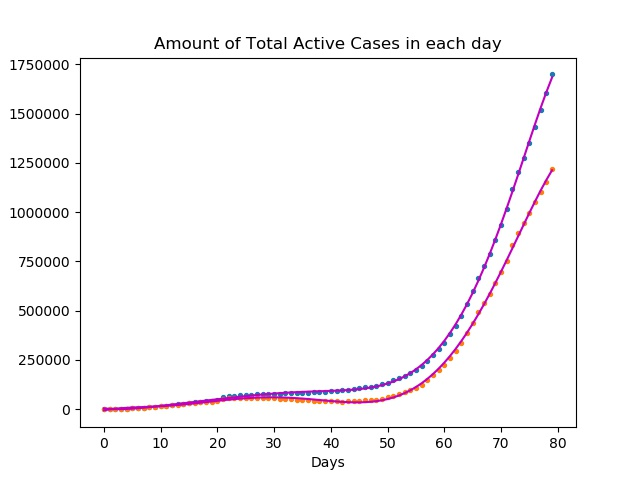
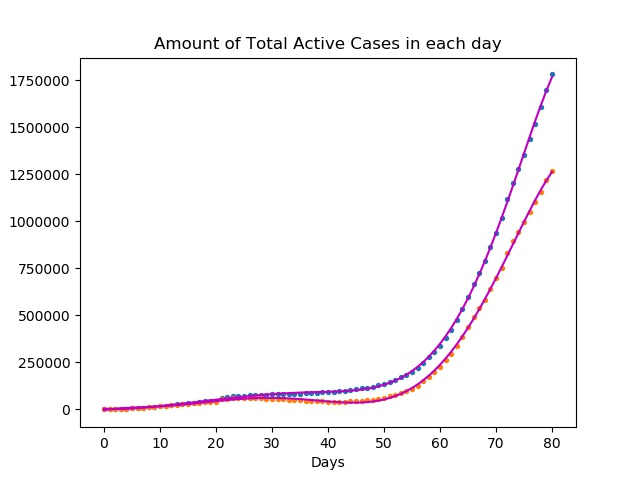
update 12/04/2020

diff --git a/README.md b/README.md
@@ -12,17 +12,17 @@ COVID-19, the disease that can result from the coronavirus worldwide new pandemi
 
 
 
-Our predictions for 11/04/2020: 
+Our predictions for 12/04/2020: 
 
-The predictions for Total Cases today is: 1749630
+The predictions for Total Cases today is: 1830250
 
-The predictions for Total Active Cases today is: 1256492
+The predictions for Total Active Cases today is: 1301429
 
-The predictions for Total Cured Cases today is: 405833
+The predictions for Total Cured Cases today is: 431493
 
-The predictions for Total Deaths  today is: 111036
+The predictions for Total Deaths  today is: 117647
 
-The predictions for Total Critical Cases  today is: 51564
+The predictions for Total Critical Cases  today is: 50955
 
 
 
@@ -33,7 +33,8 @@ The predictions for Total Critical Cases  today is: 51564
 
 |    Date    | Predicted Total Cases | Real Total Cases | Predicted Total Recovered | Real Total Recovered | Predicted  Total Deaths | Real Total Deaths | Predicted Active Cases | Real Active Cases | Predicted  Critical Cases | Real Critical Cases |
 | :--------: | :-------------------: | :--------------: | :-----------------------: | :------------------: | :---------------------: | :---------------: | :--------------------: | :---------------: | :-----------------------: | :-----------------: |
-| 11/04/2020 |        1749630        |        ??        |          405833           |          ??          |         111036          |        ??         |        1256492         |        ??         |           51564           |         ??          |
+| 12/04/2020 |        1830250        |        ??        |          431493           |          ??          |         117647          |        ??         |        1301429         |        ??         |           50955           |         ??          |
+| 11/04/2020 |        1749630        |     1779842      |          405833           |        402709        |         111036          |      108779       |        1256492         |      1268354      |           51564           |        50592        |
 | 10/04/2020 |        1663123        |     1698881      |          381831           |        376254        |         103807          |      102687       |        1205488         |      1219940      |           52087           |        49828        |
 | 08/04/2020 |        1508842        |     1518126      |          327318           |        356437        |          89935          |       88460       |        1117933         |      1151564      |           52462           |        48079        |
 | 07/04/2020 |        1436957        |     1433741      |          306797           |        302017        |          83266          |       82036       |        1070156         |      1046928      |           51629           |        47891        |
